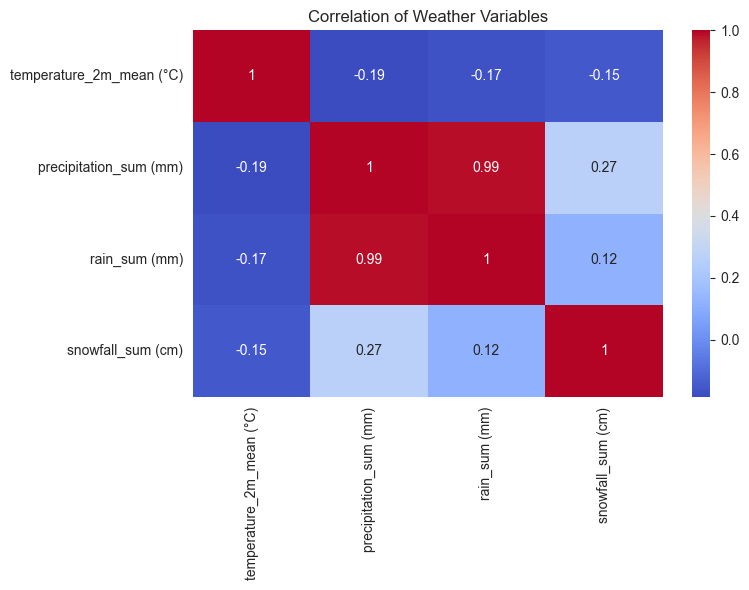
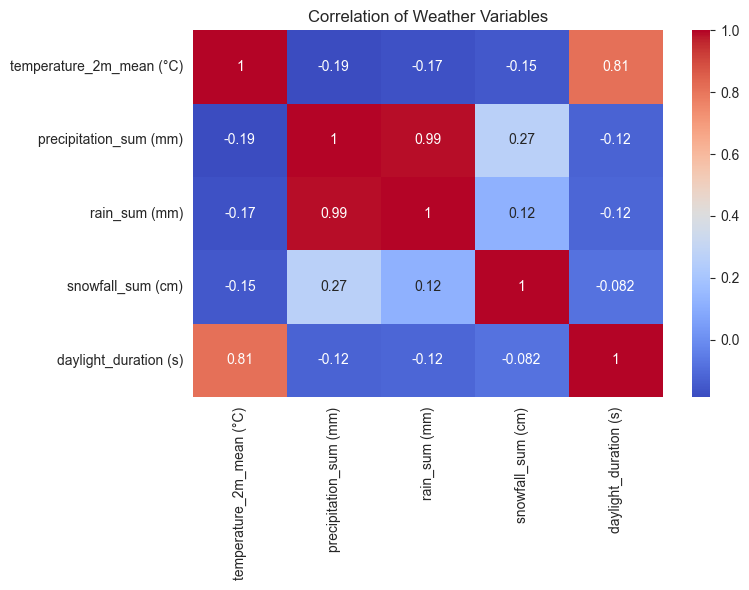
Update content

diff --git a/README.md b/README.md
@@ -46,15 +46,25 @@ pip install -r requirements.txt
 
 ### 5.   نرمال سازی
 
+
+![نرمال_سازی](images/distribution.png)
+
 برای این که بررسی دقیق تری بر روی میزان بارش ها داشته باشیم، نمودار زیر بصورت میانیگین بارش ماهانه در هر شهر رسم شده است اما چون میزان بارش شهر رشت به مراتب بیشتر از تهران و قم بوده است، مقایسه مستقیم این مقادیر ممکن است باعث گمراهی در تحلیل شود. برای حل این مشکل، از نرمالسازی به روش Min-Max Scaling استفاده شده است. این روش، مقادیر بارش را به بازهای بین ۰ و ۱ تبدیل میکند و امکان مقایسه نسبتها 
 
 ![نرمال_سازی](images/scaling.png)
 
 
 ### 5.  پیدا کردن عوامل موثر
-با استفاده نمودار heatmap می توان نتیجه گرفت که بین دما و میزان بارش همبستگی قوی ای وجود دارد و ارتباط بین آن ها نیز معکوس است. بطور مثال هر چه دما پایین تر باشد میزان بارش بیشتر است و بالعکس.  این نتیجه را می توان در  پلات زیر هم مشاهده کرد که بیشتر بارش ها در فصل های پاییز و زمستان در هر سه شهر رخ داده است. هم چنین می توان نتیجه گرفت که اگر بعد از هر شهری، شهر دیگری کاهش دمایی را تجربه کند این ا
-
+با استفاده نمودار heatmap می توان نتیجه گرفت که بین دما و میزان بارش همبستگی قوی ای وجود دارد و ارتباط بین آن ها نیز معکوس است. بطور مثال هر چه دما پایین تر باشد میزان بارش بیشتر است و بالعکس.  این نتیجه را می توان در  پلات زیر هم مشاهده کرد که بیشتر بارش ها در فصل های پاییز و زمستان در هر سه شهر رخ داده است.هم چنین استنباط می شود که  دما با طول روز رابطه مثبت و قوی دارد و بیشتر بارشها از نوع باران است.
+همچنین میتوان استنباط کرد که با کاهش دما، احتمال وقوع بارندگی افزایش مییابد.
 ![ارتباط بین عوامل](images/heatmap.png)
+
+
+برای تحلیل بهترروابط بین کمیت ها، نمودار زیر رسم شده است که در آن دمای میانگین، بارش کل، باران، برف و مدت زمان روشنایی روز به تفکیک شهرها  بررسی و نمایش داده شده است. از این نمودار می توان استنباط کرد که در بین هرسه شهر، رابطه  قوی بین دما و مدت روشنایی روز دیده میشود. همچنین، مشخص است که در شهر رشت میزان بارشها و بارانها بیشتر و دادههای پرت بیشتری در متغیرهای بارشی دارد. در حالی که تهران و قم بیشتر روزها بدون بارش یا بارش کم دارند.
+
+![ارتباط بین عوامل](images/weather_variables.png)
+
+
 
 در این نمودار میتوان نتیجه گرفت که رشت در تمام طول سال به مراتب پربارشتر است و اوج بارش آن در اواخر پاییز و زمستان (آبان، آذر، دی و بهمن) رخ میدهد، در حالی که قم و تهران در اغلب ماهها تقریباً خشکاند و تنها در فصل زمستان (دی تا اسفند) کمی بارش دارند. پس انتظار میرود رشت در الگوی بارشی همیشه اولین شهر باشد.
 
